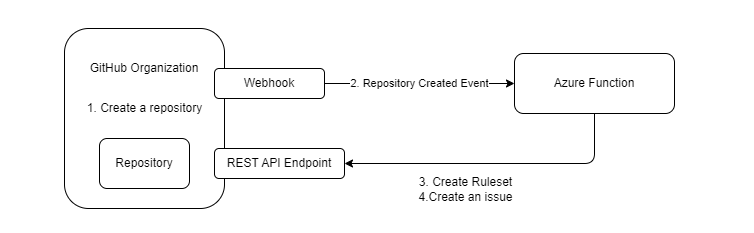
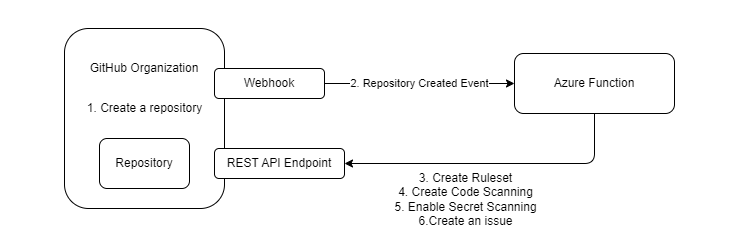
add code scanning and secret scanning feature

Changed region(s): [[0.5186, 0.7511, 0.7321, 0.9614]]

diff --git a/GitHubWebhookEventProcessor.cs b/GitHubWebhookEventProcessor.cs
@@ -71,6 +71,33 @@ public class GitHubWebhookEventProcessor(GitHubClient gitHubClient, ILogger<GitH
                     "application/json",
                     "application/json");
 
+                DefaultSetup defaultSetup = new()
+                {
+                    State = DefaultSetupStateType.Configured 
+                };
+                await gitHubClient.Connection.Patch<DefaultSetup>(
+                    new Uri($"repositories/{repositoryId}/code-scanning/default-setup", UriKind.Relative),
+                    defaultSetup,
+                    "application/json");
+
+                // Enable Secret Scanning 
+                Repository updated = await gitHubClient.Repository.Edit(
+                    repositoryId, 
+                    new() 
+                    {
+                        SecurityAndAnalysis = new()
+                        {
+                             SecretScanning = new()
+                             {
+                                  Status = Status.Enabled
+                             },
+                             SecretScanningPushProtection = new()
+                             {
+                                  Status = Status.Enabled
+                             }
+                        }
+                    });
+
                 // Create an issue to notify user.
                 NewIssue issue = new("Ruleset has been created")
                 {

diff --git a/Models/CodeScanning/DefaultSetup.cs b/Models/CodeScanning/DefaultSetup.cs
@@ -1,0 +1,37 @@
+namespace ghwebhook.Models;
+
+/// <summary>
+/// Code Scanning Default Setup
+/// </summary>
+public class DefaultSetup
+{
+    /// <summary>
+    /// The desired state of code scanning default setup.
+    /// </summary>
+    [JsonPropertyName("state")]
+    public DefaultSetupStateType State { get; set; }
+
+    /// <summary>
+    /// Runner type to be used.
+    /// </summary>
+    [JsonPropertyName("runner_type")]
+    public DefaultSetupRunnerType RunnerType { get; set; } = DefaultSetupRunnerType.standard;
+
+    /// <summary>
+    /// Runner label to be used if the runner type is labeled.
+    /// </summary>
+    [JsonPropertyName("runner_label")]
+    public string? RunnerLabel { get; set; }
+
+    /// <summary>
+    /// CodeQL query suite to be used.
+    /// </summary>
+    [JsonPropertyName("query_suite")]
+    public DefaultSetupQuerySuiteType QuerySuite { get; set; } = DefaultSetupQuerySuiteType.@default;
+
+    /// <summary>
+    /// CodeQL languages to be analyzed. Supported values are: c-cpp, csharp, go, java-kotlin, javascript-typescript, python, ruby, swift
+    /// </summary>
+    [JsonPropertyName("languages")]
+    public List<string> Languages { get; set; } = new();
+}

diff --git a/Models/CodeScanning/DefaultSetupStateType.cs b/Models/CodeScanning/DefaultSetupStateType.cs
@@ -1,0 +1,19 @@
+namespace ghwebhook.Models;
+
+/// <summary>
+/// Specifies the default setupstate for code scanning
+/// </summary>
+public enum DefaultSetupStateType
+{
+    /// <summary>
+    /// Configured
+    /// </summary>
+    [JsonPropertyName("not-configured")]
+    Configured,
+
+    /// <summary>
+    /// Not Configured
+    /// </summary>
+    [JsonPropertyName("not-configured")]
+    NotConfigured,
+}

diff --git a/Models/CodeScanning/DefaultSetupQuerySuiteType.cs b/Models/CodeScanning/DefaultSetupQuerySuiteType.cs
@@ -1,0 +1,18 @@
+namespace ghwebhook.Models;
+
+/// <summary>
+/// Specifies the default QuerySuite for code scanning
+/// </summary>
+public enum DefaultSetupQuerySuiteType
+{
+    /// <summary>
+    /// default
+    /// </summary>
+    [JsonPropertyName("default")]
+    @default,
+
+    /// <summary>
+    /// extended
+    /// </summary>
+    extended,
+}

diff --git a/Models/CodeScanning/DefaultSetupRunnerType.cs b/Models/CodeScanning/DefaultSetupRunnerType.cs
@@ -1,0 +1,17 @@
+namespace ghwebhook.Models;
+
+/// <summary>
+/// Specifies the default runner for code scanning
+/// </summary>
+public enum DefaultSetupRunnerType
+{
+    /// <summary>
+    /// standard
+    /// </summary>
+    standard,
+
+    /// <summary>
+    /// labeled
+    /// </summary>
+    labeled,
+}

diff --git a/README.md b/README.md
@@ -10,6 +10,8 @@ We use C#/.NET 9 and Azure Functions.
 
 - Listen to GitHub organization webhook repository events.
 - Create a ruleset to protect the main branch of new repositories.
+- Enable Code Scanning with default setup
+- Enable Secret Scanning to protect secret push
 - Notify a user that the main branch has been protected by creating an issue and mention the user.
 
 ![Architecture](./assets/architecture-diagram.png)
@@ -18,7 +20,7 @@ We use C#/.NET 9 and Azure Functions.
 
 To run the application, you need:
 
-- GitHub account and a [GitHub organization](https://docs.github.com/en/organizations).
+- GitHub account and a [GitHub organization](https://docs.github.com/en/organizations) with appropriate licenses[^1]
 - [GitHub App](https://docs.github.com/en/developers/apps/building-github-apps/creating-a-github-app) for authorizing the use of GitHub REST API.
 - [GitHub Organization Webook](https://docs.github.com/en/webhooks)
 - [Azure Subscription](https://portal.azure.com) to host the application on Azure Function.
@@ -26,6 +28,8 @@ To run the application, you need:
 - [Azure Functions related tools](https://learn.microsoft.com/en-us/azure/azure-functions/functions-reference)
 
 We use Azure Functions [isolated worker model](https://learn.microsoft.com/en-us/azure/azure-functions/dotnet-isolated-process-guide) to run .NET 9 application.
+
+[^1]: See [Compare Fetures](https://github.com/pricing#compare-features) to see which license you need. 
 
 ### GitHub App
 
@@ -43,6 +47,13 @@ The Azure Functions app consumes the GitHub REST API to create a ruleset and an 
 
 - [Create a RuleSet](https://docs.github.com/en/rest/repos/rules?apiVersion=2022-11-28#create-a-repository-ruleset) for applying branch protection rules.
 - [Create an Issue](https://docs.github.com/en/rest/issues/issues?apiVersion=2022-11-28#create-an-issue) for creating issues to notify users.
+
+### GitHub Advanced Security
+
+[GitHub Advanced Security](https://docs.github.com/en/enterprise-cloud@latest/get-started/learning-about-github/about-github-advanced-security) provides useful secrity related features. In this repo,we use following features to protect branch.
+
+- [Code scanning with CodeQL](https://docs.github.com/en/enterprise-cloud@latest/code-security/code-scanning/introduction-to-code-scanning/about-code-scanning-with-codeql)
+- [Secret scanning](https://docs.github.com/en/enterprise-cloud@latest/code-security/secret-scanning/introduction/about-secret-scanning)
 
 ## Getting Started
 
